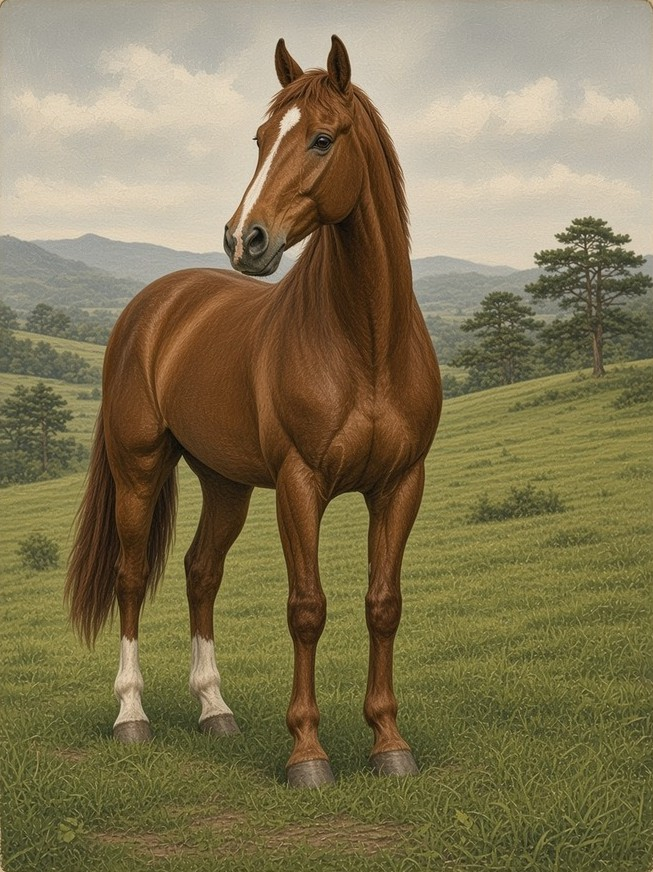
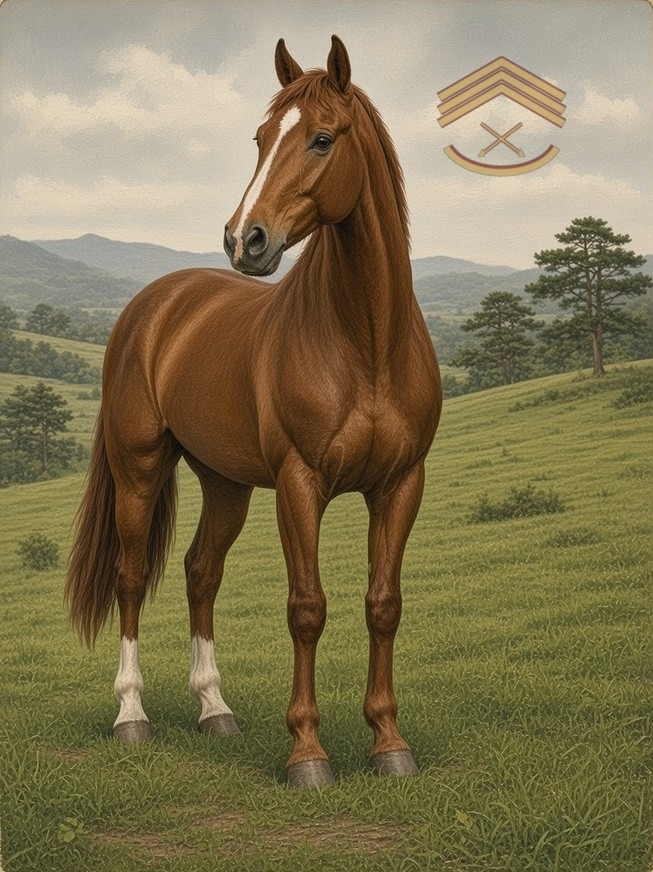
Add Colors & Breeds ID cards and update Sergeant Reckless.
The twenty identifier cards stay unnumbered, so the catalog is still 196 horses. Sergeant Reckless's photo now includes the staff sergeant insignia.

Changed region(s): [[0.6738, 0.0619, 0.8882, 0.2167]]

diff --git a/horse-cards/data.js b/horse-cards/data.js
@@ -199,12 +199,36 @@
     ["kabarda", "Kabarda", "Breed", "Common", "North Caucasus", "A sure-footed mountain horse of the North Caucasus.", 7, 9, 8, "bay"],
     ["manipuri", "Manipuri Pony", "Breed", "Uncommon", "Manipur, India", "A pony of Manipur, long used for polo.", 7, 7, 8, "bay"],
     ["riverton", "Riverton", "Personal", "Legendary", "Home", "He's just a baby. A 2,000 lb baby.", 5, 7, 10, "gray"],
-    ["kali", "Kali", "Personal", "Legendary", "Home", "The silliest goose and the chunkiest of monkeys.", 4, 7, 10, "chestnut"]
+    ["kali", "Kali", "Personal", "Legendary", "Home", "The silliest goose and the chunkiest of monkeys.", 4, 7, 10, "chestnut"],
+
+    ["id-appaloosa-color", "Appaloosa (Color)", "Colors & Breeds", "Common", "", "A spotted coat with mottled skin, white sclera around the eye and striped hooves.", 5, 5, 5, "spotted", true],
+    ["id-bay", "Bay", "Colors & Breeds", "Common", "", "Brown or reddish-brown body with black points: black mane, tail and lower legs.", 5, 5, 5, "bay", true],
+    ["id-black", "Black", "Colors & Breeds", "Common", "", "Solid black all over, including the muzzle and flanks, with no reddish or brown areas.", 5, 5, 5, "black", true],
+    ["id-buckskin", "Buckskin", "Colors & Breeds", "Common", "", "A tan or gold body with black points: black mane, tail and lower legs.", 5, 5, 5, "buckskin", true],
+    ["id-chestnut", "Chestnut", "Colors & Breeds", "Common", "", "Red to copper body with a mane and tail the same shade or lighter. No black points.", 5, 5, 5, "chestnut", true],
+    ["id-dun", "Dun", "Colors & Breeds", "Common", "", "A sandy body with a dark dorsal stripe down the spine, often with zebra bars on the legs.", 5, 5, 5, "dun", true],
+    ["id-gray", "Gray", "Colors & Breeds", "Common", "", "Dark skin under white hairs that grow in with age, often dappled, until the coat turns nearly white.", 5, 5, 5, "gray", true],
+    ["id-palomino", "Palomino", "Colors & Breeds", "Common", "", "A golden coat with a white or flaxen mane and tail.", 5, 5, 5, "palomino", true],
+    ["id-pinto", "Paint/Pinto", "Colors & Breeds", "Common", "", "Large patches of white and another color spread across the body.", 5, 5, 5, "spotted", true],
+    ["id-roan", "Roan", "Colors & Breeds", "Common", "", "White hairs evenly mixed through a colored body, while the head and legs stay solid and dark.", 5, 5, 5, "roan", true],
+    ["id-american-paint", "American Paint Horse", "Colors & Breeds", "Common", "", "A stock-horse build with pinto patches. Registered horses need Paint, Quarter Horse or Thoroughbred bloodlines.", 5, 5, 5, "spotted", true],
+    ["id-appaloosa-breed", "Appaloosa (Breed)", "Colors & Breeds", "Common", "", "A sturdy breed developed by the Nez Perce people, known for its spotted coats and striped hooves.", 5, 5, 5, "spotted", true],
+    ["id-arabian", "Arabian", "Colors & Breeds", "Common", "", "A dished face, large eyes, an arched neck and a tail carried high.", 5, 5, 5, "bay", true],
+    ["id-clydesdale", "Clydesdale", "Colors & Breeds", "Common", "", "A huge draft horse, often bay, with white markings and long white feathering on the legs.", 5, 5, 5, "bay", true],
+    ["id-friesian", "Friesian", "Colors & Breeds", "Common", "", "Jet black, with a long, thick, wavy mane and tail and feathered lower legs.", 5, 5, 5, "black", true],
+    ["id-morgan", "Morgan", "Colors & Breeds", "Common", "", "A compact, versatile horse with an upright, arched neck and an expressive head.", 5, 5, 5, "bay", true],
+    ["id-mustang", "Mustang", "Colors & Breeds", "Common", "", "A free-roaming horse of the American West: small, hardy and sure-footed.", 5, 5, 5, "dun", true],
+    ["id-quarter-horse", "Quarter Horse", "Colors & Breeds", "Common", "", "A compact stock horse: short head, broad chest and big, muscular hindquarters built for sprinting.", 5, 5, 5, "chestnut", true],
+    ["id-tennessee-walker", "Tennessee Walking Horse", "Colors & Breeds", "Common", "", "Known for its smooth, gliding running walk, with a head that nods in rhythm.", 5, 5, 5, "chestnut", true],
+    ["id-thoroughbred", "Thoroughbred", "Colors & Breeds", "Common", "", "A tall, lean racehorse with long legs, a deep chest and a refined head.", 5, 5, 5, "bay", true]
   ];
 
-  var out = cards.map(function (row, i) {
+  var numbered = 0;
+  var out = cards.map(function (row) {
+    var idCard = row[10] === true;
+    if (!idCard) numbered += 1;
     return {
-      n: i + 1,
+      n: idCard ? 0 : numbered,
       id: row[0],
       name: row[1],
       cat: row[2],
@@ -214,7 +238,8 @@
       speed: row[6],
       stamina: row[7],
       heart: row[8],
-      coat: row[9]
+      coat: row[9],
+      idCard: idCard
     };
   });
   root.HOOF_CARDS = out;

diff --git a/horse-cards/credits/index.html b/horse-cards/credits/index.html
@@ -19,7 +19,7 @@
 <header class="wrap">
   <p><a href="../">← Hoofprint Legends</a></p>
   <h1>Image credits</h1>
-  <p>All 196 cards use original art by Dukktape Studios (AI-assisted). When a free photo helped shape a picture, that photo is listed here as a reference source.</p>
+  <p>All 196 cards use original art by Dukktape Studios (AI-assisted). When a free photo helped shape a picture, that photo is listed here as a reference source. The Colors &amp; Breeds ID cards use the same studio art.</p>
 </header>
 <div class="wrap">
 <table>
@@ -221,6 +221,26 @@
 <tr><td>Manipuri Pony</td><td>Breed</td><td>Art: Dukktape Studios (AI-assisted)</td><td>—</td><td>—</td><td>—</td></tr>
 <tr><td>Riverton</td><td>Personal</td><td>Art: Dukktape Studios (AI-assisted)</td><td>—</td><td>—</td><td>—</td></tr>
 <tr><td>Kali</td><td>Personal</td><td>Art: Dukktape Studios (AI-assisted)</td><td>—</td><td>—</td><td>—</td></tr>
+<tr><td>Appaloosa (Color)</td><td>Colors &amp; Breeds</td><td>Art: Dukktape Studios (AI-assisted)</td><td>—</td><td>—</td><td>—</td></tr>
+<tr><td>Bay</td><td>Colors &amp; Breeds</td><td>Art: Dukktape Studios (AI-assisted)</td><td>—</td><td>—</td><td>—</td></tr>
+<tr><td>Black</td><td>Colors &amp; Breeds</td><td>Art: Dukktape Studios (AI-assisted)</td><td>—</td><td>—</td><td>—</td></tr>
+<tr><td>Buckskin</td><td>Colors &amp; Breeds</td><td>Art: Dukktape Studios (AI-assisted)</td><td>—</td><td>—</td><td>—</td></tr>
+<tr><td>Chestnut</td><td>Colors &amp; Breeds</td><td>Art: Dukktape Studios (AI-assisted)</td><td>—</td><td>—</td><td>—</td></tr>
+<tr><td>Dun</td><td>Colors &amp; Breeds</td><td>Art: Dukktape Studios (AI-assisted)</td><td>—</td><td>—</td><td>—</td></tr>
+<tr><td>Gray</td><td>Colors &amp; Breeds</td><td>Art: Dukktape Studios (AI-assisted)</td><td>—</td><td>—</td><td>—</td></tr>
+<tr><td>Palomino</td><td>Colors &amp; Breeds</td><td>Art: Dukktape Studios (AI-assisted)</td><td>—</td><td>—</td><td>—</td></tr>
+<tr><td>Paint/Pinto</td><td>Colors &amp; Breeds</td><td>Art: Dukktape Studios (AI-assisted)</td><td>—</td><td>—</td><td>—</td></tr>
+<tr><td>Roan</td><td>Colors &amp; Breeds</td><td>Art: Dukktape Studios (AI-assisted)</td><td>—</td><td>—</td><td>—</td></tr>
+<tr><td>American Paint Horse</td><td>Colors &amp; Breeds</td><td>Art: Dukktape Studios (AI-assisted)</td><td>—</td><td>—</td><td>—</td></tr>
+<tr><td>Appaloosa (Breed)</td><td>Colors &amp; Breeds</td><td>Art: Dukktape Studios (AI-assisted)</td><td>—</td><td>—</td><td>—</td></tr>
+<tr><td>Arabian</td><td>Colors &amp; Breeds</td><td>Art: Dukktape Studios (AI-assisted)</td><td>—</td><td>—</td><td>—</td></tr>
+<tr><td>Clydesdale</td><td>Colors &amp; Breeds</td><td>Art: Dukktape Studios (AI-assisted)</td><td>—</td><td>—</td><td>—</td></tr>
+<tr><td>Friesian</td><td>Colors &amp; Breeds</td><td>Art: Dukktape Studios (AI-assisted)</td><td>—</td><td>—</td><td>—</td></tr>
+<tr><td>Morgan</td><td>Colors &amp; Breeds</td><td>Art: Dukktape Studios (AI-assisted)</td><td>—</td><td>—</td><td>—</td></tr>
+<tr><td>Mustang</td><td>Colors &amp; Breeds</td><td>Art: Dukktape Studios (AI-assisted)</td><td>—</td><td>—</td><td>—</td></tr>
+<tr><td>Quarter Horse</td><td>Colors &amp; Breeds</td><td>Art: Dukktape Studios (AI-assisted)</td><td>—</td><td>—</td><td>—</td></tr>
+<tr><td>Tennessee Walking Horse</td><td>Colors &amp; Breeds</td><td>Art: Dukktape Studios (AI-assisted)</td><td>—</td><td>—</td><td>—</td></tr>
+<tr><td>Thoroughbred</td><td>Colors &amp; Breeds</td><td>Art: Dukktape Studios (AI-assisted)</td><td>—</td><td>—</td><td>—</td></tr>
 </tbody>
 </table>
 </div>

diff --git a/horse-cards/app.js b/horse-cards/app.js
@@ -1,6 +1,6 @@
 (function () {
   var cards = window.HOOF_CARDS || [];
-  var total = cards.length;
+  var total = cards.filter(function (card) { return !card.idCard; }).length;
   var cat = "all";
   var rarity = "all";
   var query = "";
@@ -90,7 +90,7 @@
   function artBlock(card) {
     var photo = photoById[card.id];
     if (!photo) return '<span class="artwin"><span class="needs-art">Needs art</span></span>';
-    return '<span class="artwin"><img class="photo" alt="' + esc(card.name) + '" src="' + photo.file + '?v=2026103131"></span>';
+    return '<span class="artwin"><img class="photo" alt="' + esc(card.name) + '" src="' + photo.file + '?v=2026103133"></span>';
   }
 
   function shoeMark(which) {
@@ -116,7 +116,8 @@
   function face(card, which) {
     var spec = tierById(which);
     var serial = which === "champion" ? '<span class="serial">' + serialOf(card) + "</span>" : "";
-    return '<span class="head"><span><span class="num">' + card.n + "/" + total + "</span>" +
+    var numText = card.idCard ? "ID" : (card.n + "/" + total);
+    return '<span class="head"><span><span class="num">' + numText + "</span>" +
       '<span class="rarity">' + card.rarity + "</span></span>" +
       '<span class="tier-mark"><span class="tier-icon" aria-hidden="true">' + spec.icon + "</span> " + spec.label + serial + "</span></span>" +
       artBlock(card) +
@@ -155,7 +156,15 @@
   function render() {
     var shown = cards.filter(matches);
     grid.replaceChildren();
+    var labeled = false;
     shown.forEach(function (card) {
+      if (card.idCard && !labeled) {
+        var heading = document.createElement("h2");
+        heading.className = "group-label";
+        heading.textContent = "Colors & Breeds";
+        grid.appendChild(heading);
+        labeled = true;
+      }
       var slot = document.createElement("div");
       slot.className = "slot";
       slot.setAttribute("data-id", card.id);

diff --git a/horse-cards/index.html b/horse-cards/index.html
@@ -5,7 +5,7 @@
 <meta name="viewport" content="width=device-width, initial-scale=1">
 <title>Hoofprint Legends | Dukktape Studios</title>
 <meta name="description" content="A catalog of 196 horses. History, racing, and breeds.">
-<link rel="stylesheet" href="style.css?v=2026103132">
+<link rel="stylesheet" href="style.css?v=2026103133">
 </head>
 <body>
 <header class="top">
@@ -34,6 +34,7 @@
     <button type="button" data-cat="Racing">Racing</button>
     <button type="button" data-cat="Breed">Breed</button>
     <button type="button" data-cat="Personal">Personal</button>
+    <button type="button" data-cat="Colors & Breeds">Colors &amp; Breeds</button>
   </div>
   <div class="filters" role="group" aria-label="Rarity">
     <button type="button" data-rarity="all" aria-pressed="true">Any rarity</button>
@@ -75,7 +76,7 @@
   <div id="feedback-box"><script src="https://giscus.app/client.js" data-repo="dukktapestudios/dukktapestudios.github.io" data-repo-id="R_kgDOVcgvLw" data-category="General" data-category-id="DIC_kwDOVcgvL84DKFnn" data-mapping="pathname" data-strict="0" data-reactions-enabled="0" data-emit-metadata="0" data-input-position="top" data-theme="light" data-lang="en" data-loading="lazy" crossorigin="anonymous" async></script></div>
 </section>
 <footer>© 2026 Dukktape Studios</footer>
-<script src="data.js?v=2026103131"></script>
-<script src="app.js?v=2026103131"></script>
+<script src="data.js?v=2026103133"></script>
+<script src="app.js?v=2026103133"></script>
 </body>
 </html>

diff --git a/horse-cards/style.css b/horse-cards/style.css
@@ -122,6 +122,12 @@ h1 { margin: 0; font-size: clamp(2rem, 6vw, 3.2rem); line-height: .95; }
   gap: 14px;
   padding: 14px 0;
 }
+.group-label {
+  grid-column: 1 / -1;
+  margin: 18px 0 0;
+  color: var(--ink);
+  font-size: 1.45rem;
+}
 .card {
   position: absolute;
   top: 0;
@@ -260,7 +266,7 @@ footer { text-align: center; padding: 18px 10px 28px; font-weight: 700; }
     color: #000 !important;
     min-height: 0;
   }
-  .top, .note, .controls, .legend, .tier-switch, .card-back, .site-feedback, footer, .empty, dialog { display: none !important; }
+  .top, .note, .controls, .legend, .tier-switch, .card-back, .site-feedback, footer, .empty, dialog, .group-label { display: none !important; }
   .slot, .card-scale { display: contents; }
   .grid {
     display: grid !important;
